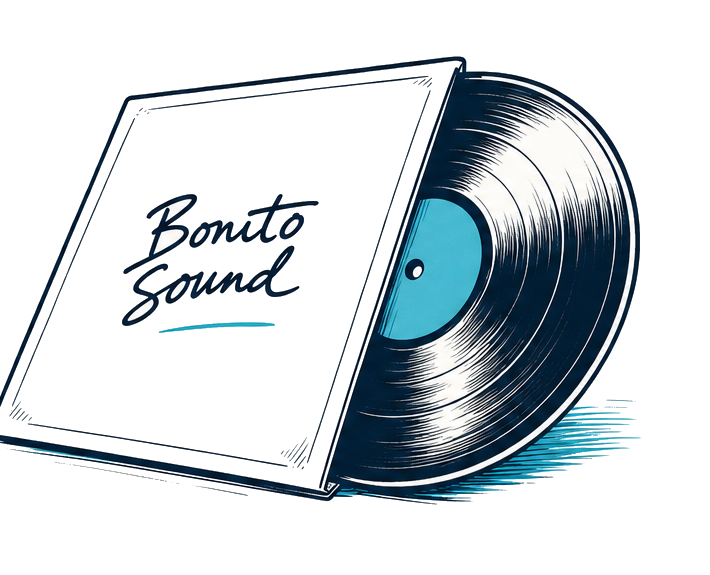
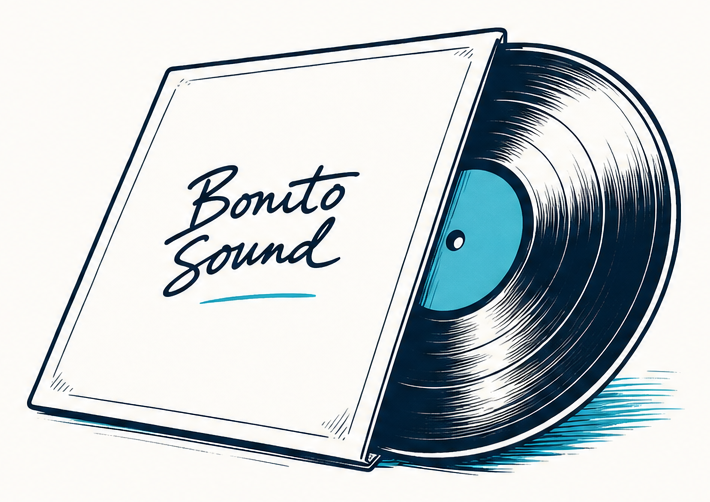
Records (sello): hero con la ilustración del vinilo + copy del mockup
- Nueva ilustración de hero del sello (vinilo saliendo de la funda "Bonito
  Sound", navy + cian), recortada del mockup que pasó Víctor →
  /img/servicios/heroes/sello.png.
- Titular del sello según el mockup: "Tu música, bien cuidada." ("bien cuidada."
  en cian) + apoyo "Editamos, producimos y distribuimos. Del máster a las
  plataformas… Records 360: sello, editorial y distribución en un mismo sitio."
- ServicePage: soporte opcional de acento cian en el h1 (campo h1Cyan), usado
  de momento solo por el sello.
- Quitado el mockup suelto de la raíz del repo.

Nota: la landing del sello vive en /records/sello (ya tenía secciones ricas:
qué hacemos, proceso, caso Eva Calyza + Spotify, ediciones, FAQ, CTA). La
consolidación de rutas de /records queda pendiente de tu decisión.

Claude-Session: https://claude.ai/code/session_013nxPdVxofQcXxYNMZ4biFo

diff --git a/components/services/ServicePage.tsx b/components/services/ServicePage.tsx
@@ -87,9 +87,17 @@ export function ServicePage({
         <div className={`wrap grid items-center gap-10 py-16 md:py-24 ${illo ? "md:grid-cols-[1.05fr_0.95fr]" : ""}`}>
           <div className={illo ? "" : "max-w-3xl"}>
             <RevealOnScroll as="p" className="eyebrow mb-4">{service.eyebrow}</RevealOnScroll>
-            <SplitTextReveal as="h1" split="lines" className="display text-[clamp(2.6rem,7vw,5.4rem)]">
-              {service.h1}
-            </SplitTextReveal>
+            {service.h1Cyan && service.h1.includes(service.h1Cyan) ? (
+              <RevealOnScroll as="h1" className="display text-[clamp(2.6rem,7vw,5.4rem)] leading-[1.02]">
+                {service.h1.slice(0, service.h1.indexOf(service.h1Cyan))}
+                <span style={{ color: CYAN }}>{service.h1Cyan}</span>
+                {service.h1.slice(service.h1.indexOf(service.h1Cyan) + service.h1Cyan.length)}
+              </RevealOnScroll>
+            ) : (
+              <SplitTextReveal as="h1" split="lines" className="display text-[clamp(2.6rem,7vw,5.4rem)]">
+                {service.h1}
+              </SplitTextReveal>
+            )}
             <RevealOnScroll as="p" className="mt-7 text-lg text-text-secondary" delay={0.2}>{service.desc}</RevealOnScroll>
             <RevealOnScroll className="mt-9" delay={0.35}>
               <MagneticButton strength={0.35}><Cta href={mailto}>Hablamos →</Cta></MagneticButton>

diff --git a/lib/services.ts b/lib/services.ts
@@ -10,8 +10,10 @@ export type Service = {
   /** Ruta completa (para canonical / links). */
   path: string;
   eyebrow: string;
-  /** Titular provisional del hero (Víctor lo reemplaza con su diseño). */
+  /** Titular del hero. */
   h1: string;
+  /** Trozo del h1 que va en cian (opcional; debe ser subcadena literal de h1). */
+  h1Cyan?: string;
   desc: string;
   /** Asunto del mailto de contacto. */
   ctaSubject: string;
@@ -71,8 +73,9 @@ export const services: Record<string, Service> = {
     slug: "sello",
     path: "/records/sello",
     eyebrow: "Sello",
-    h1: "Del máster a la calle, con criterio.",
-    desc: "Producimos, publicamos y empujamos. Trabajamos pocos proyectos y los trabajamos en serio.",
+    h1: "Tu música, bien cuidada.",
+    h1Cyan: "bien cuidada.",
+    desc: "Editamos, producimos y distribuimos. Del máster a las plataformas, con criterio y sin prisas. Records 360: sello, editorial y distribución en un mismo sitio.",
     ctaSubject: "Sello",
     aspects: [
       { name: "Criterio", desc: "Te decimos qué single sale y por qué. Con argumentos, no con corazonadas." },
